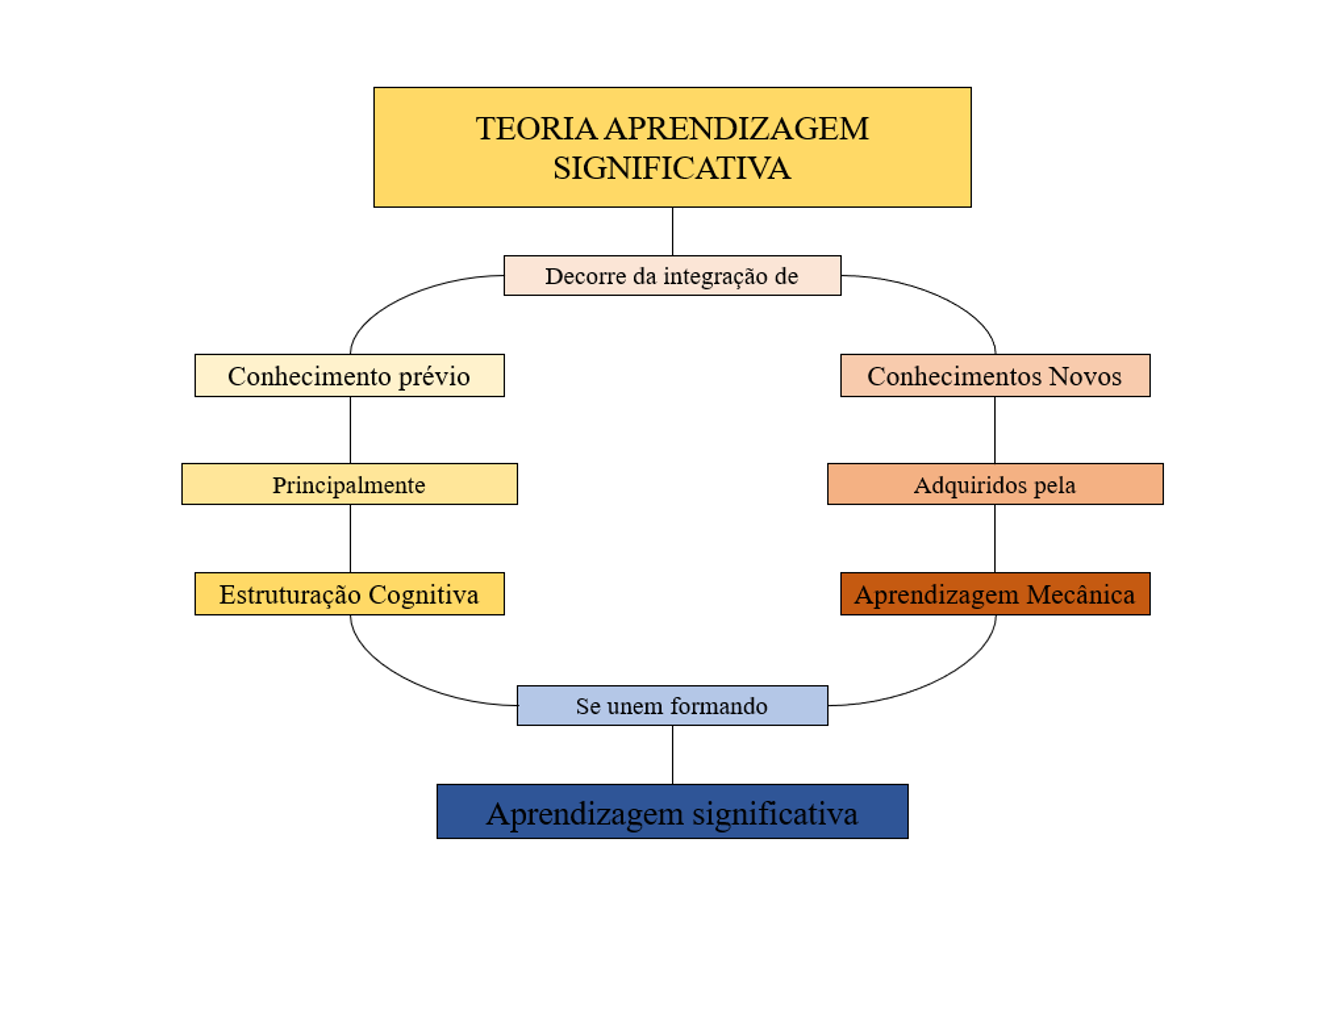
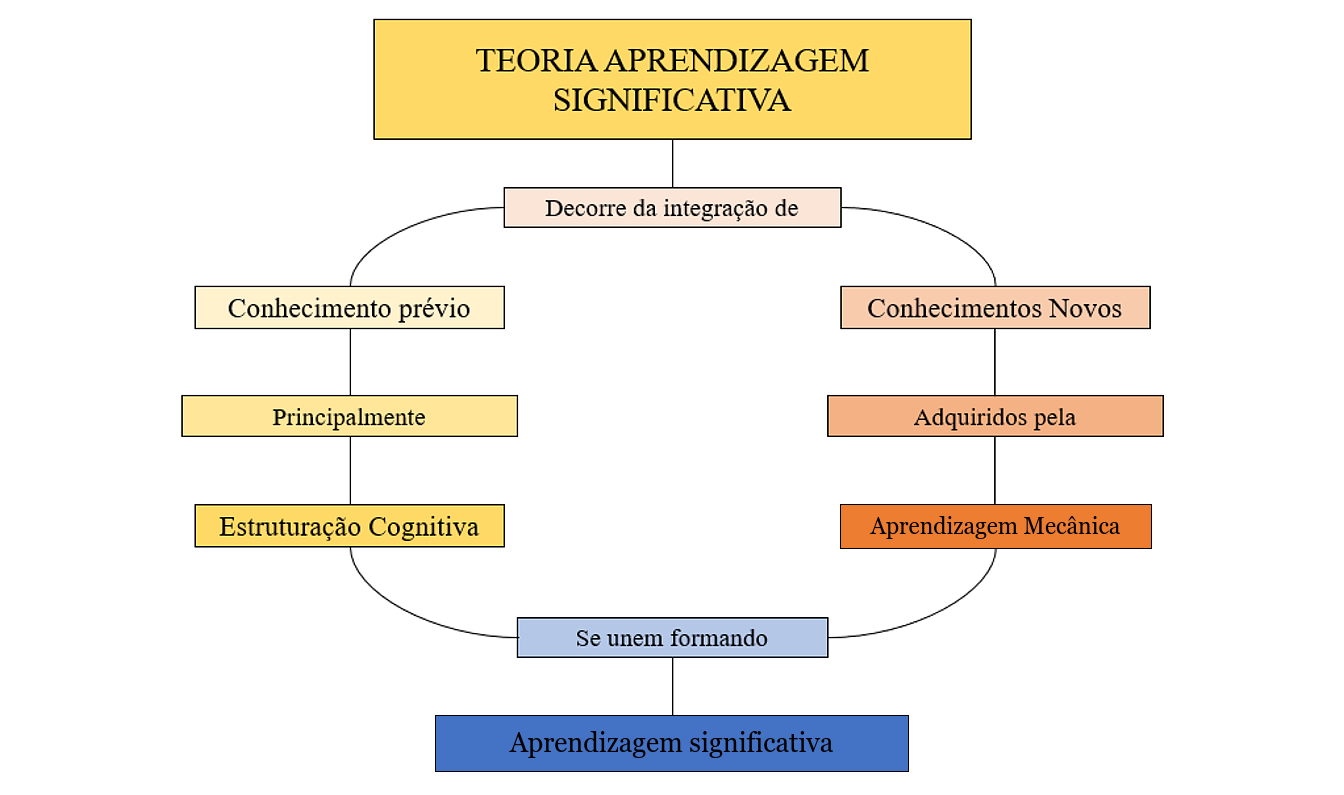
ajustes de imagens

diff --git a/conceito.html b/conceito.html
@@ -22,8 +22,11 @@
     
     <div class="container">
         <br clear="both"/>
+        
         <h2 class="titulo-secundario">MAPAS CONCEITUAIS E TEORIA DA APRENDIZAGEM SIGNIFICATIVA</h2>
+        
         <br>
+        
         <div class="textos">
             
             <p><b>Definição:</b><br/><br/>“Um mapa conceitual é um diagrama ou ferramenta gráfica que representa visualmente 
@@ -52,22 +55,32 @@
         <br/>
 
         <h2 class="titulo-secundario">IMPLEMENTANDO MAPAS CONCEITUAIS...</h2>
-        <img class="img-conceito" src="assets/img/mapa_mapa.png"/>
+
+        <div class="img-conceito">
+            <img src="assets/img/mapa_mapa.png"/>
+        </div>
+
+        <h2 class="titulo-secundario" style="margin-top: 5%;">APRENDIZAGEM SIGNIFICATIVA</h2>
+        
         <br>
-        <h2 class="titulo-secundario">APRENDIZAGEM SIGNIFICATIVA</h2>
-        <br>
+        
         <div class="textos">
             <p><b>Definição:</b> <br/><br/>“A teoria da aprendizagem significativa foi desenvolvida pelo pesquisador 
                 da Universidade de Nova York, David Ausubel em 1960, ela é base para Joseph Novak, principal desenvolvedor dos
                 mapas conceituais. Essa teoria estuda que a aprendizagem pode ser mecânica ou significativa.”
             </p>
         </div>
-        <br>
-        <img class="img-conceito" src="assets/img/mapa_sobre_ap_sig.png"/>
-        <br>
-        <img class="img-conceito" src="assets/img/mapa_ap sig.png"/>
 
+        <br>
+
+        <div class="img-conceito">
+            <img src="assets/img/mapa_sobre_ap_sig.png"/>
+            
+            <img src="assets/img/mapa_ap sig.png"/>
+        </div>
+        
     </div>
     
 </body>
+
 </html>

diff --git a/sobre.html b/sobre.html
@@ -23,7 +23,7 @@
     <div class="container">
         <br clear="both"/>
         <h2>Sobre:</h2>
-        <br>
+        <!-- <br> -->
         <div class="sobre">
             <p>
                 A <b>Metodologia Montoni Batista</b> foi elaborada pela professora de Arquitetura e Urbanismo Emanuela Montoni, 
@@ -55,15 +55,11 @@
                 mas também para aqueles que já estão formados e querem ter uma boa conceituação dos projetos que irão 
                 receber na sua vida profissional.
             </p>
-        </div>
-        
-        <!-- <div class="img-sobre">
-            <img id="img-sobre-emanuela" src="assets/img/emanuela.png"/>
             
-            <img src="assets/img/tacyana.png" style="height: 182px;" />
-        </div> -->
+        </div>
         
     </div>
 
 </body>
+
 </html>

diff --git a/assets/css/style.css b/assets/css/style.css
@@ -67,6 +67,7 @@
 .img-sobre {
     display: flex;
     justify-content: center;
+    margin: 2.5%;
 }
 
 .container {
@@ -83,12 +84,12 @@
     margin-top: 0.3%;
 }
 
-.titulo-secundario {
+.titulo-secundario, .img-conceito {
     text-align: center;
 }
 
-.textos p {
-    margin-bottom: 2%;
+.textos p, .img-conceito img {
+    margin: 2% 0;
 }
 
 .buttons-menu {
@@ -104,11 +105,6 @@
 
 .buttons-menu:hover {
     background-color: #001d6b;
-}
-
-.img-conceito {
-    display: flex;
-    justify-content: center;
 }
 
 
